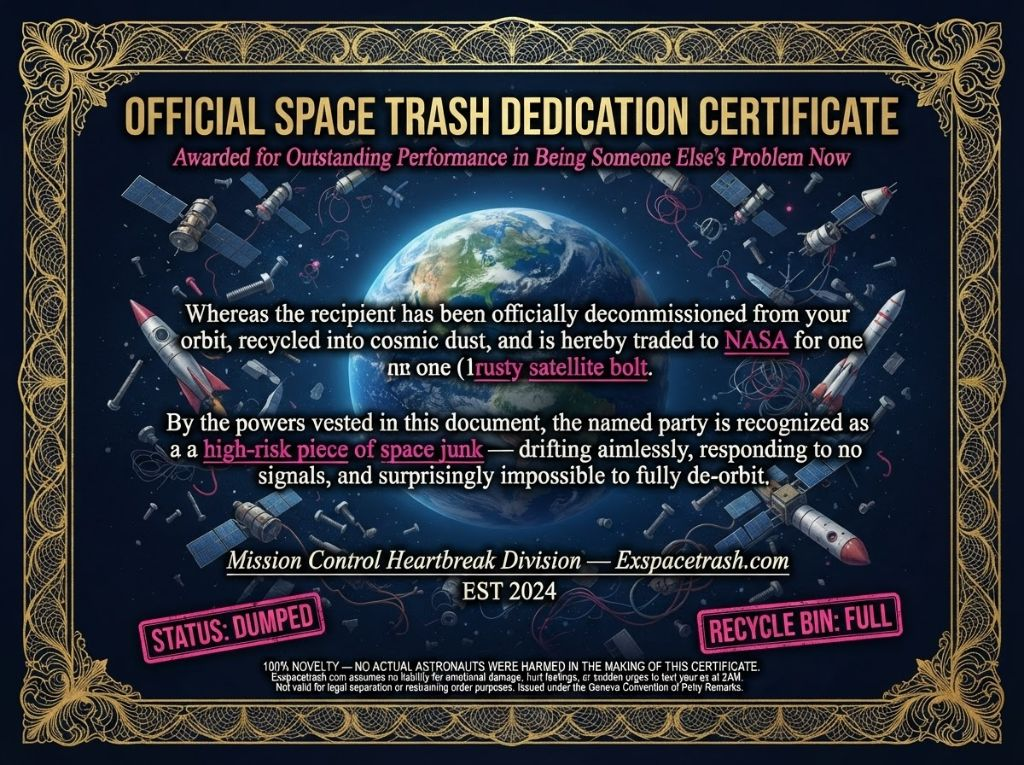
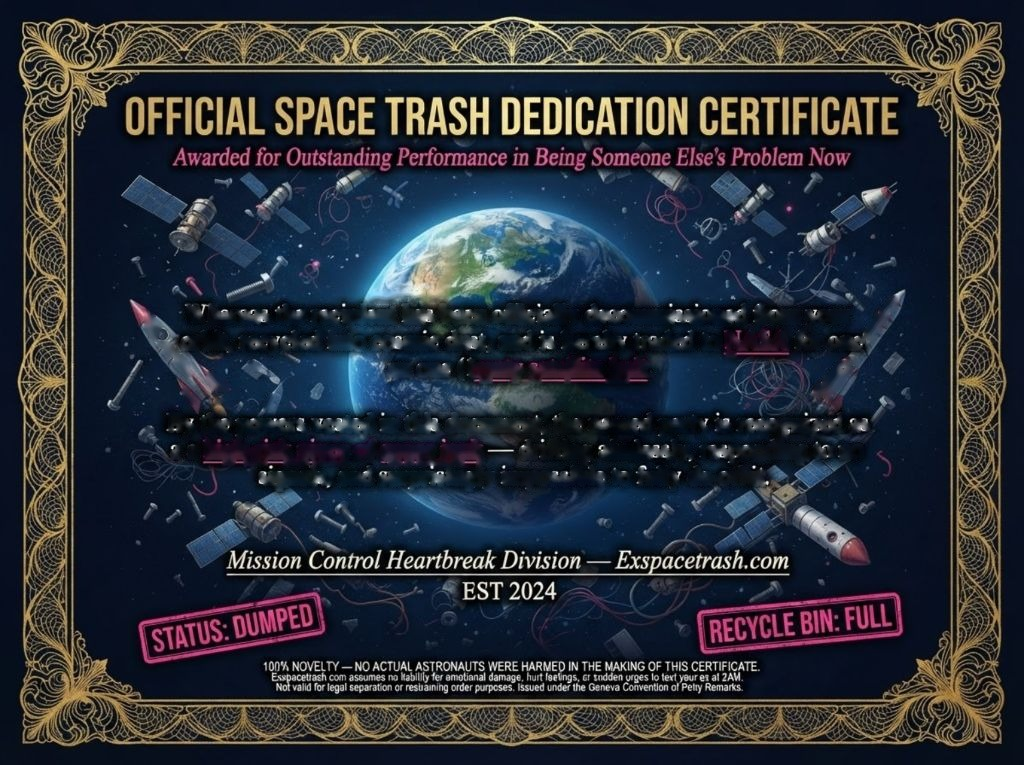
Cert A: erase printed paragraphs so customer text has clear space (v1.3.3)

Changed region(s): [[0.125, 0.3608, 0.875, 0.6614], [0.2812, 0.8719, 0.7188, 0.902], [0.4375, 0.0301, 0.4688, 0.0601]]

diff --git a/index.html b/index.html
@@ -584,7 +584,7 @@
     const API_BASE = ''; // same-origin serverless functions under /api
     // Bump this whenever index.html changes. It rides along on every analytics
     // event, so "conversion dropped on the 12th" can be tied to a deploy.
-    const APP_VERSION = '1.3.2';
+    const APP_VERSION = '1.3.3';
     let currentUser = null;
 
     // =====================================================================
